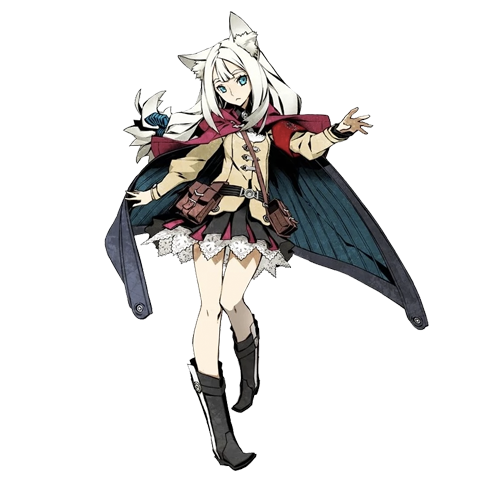
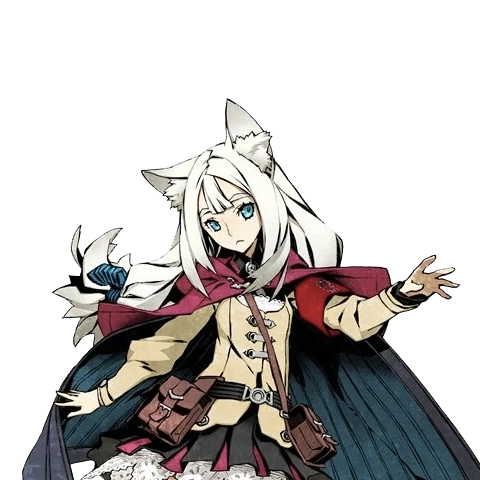
update

diff --git a/src/js/talk/talk.js b/src/js/talk/talk.js
@@ -9,8 +9,8 @@ const talkscript = [
   },
   {
     type: 0,
-    name: '男たち',
-    text: 'こんにちは!!'
+    name: '宿屋',
+    text: 'こんにちは'
   },
   {
     type: 1,
@@ -19,13 +19,28 @@ const talkscript = [
   },
   {
     type: 0,
-    name: '男たち',
+    name: '宿屋',
     text: 'ここは宿屋です'
   },
   {
     type: 0,
-    name: '男たち',
-    text: 'ここは宿屋です!!'
+    name: '宿屋',
+    text: 'ここは宿屋です！'
+  },
+  {
+    type: 1,
+    name: 'ルシェ',
+    text: '今日泊まりたいのだけれども・・・'
+  },
+  {
+    type: 0,
+    name: '宿屋',
+    text: 'お好きな部屋をお使いください'
+  },
+  {
+    type: 1,
+    name: 'ルシェ',
+    text: 'ありがとう'
   },
 ]
 
@@ -45,10 +60,11 @@ class Talk {
   async start() {
     const queue = new createjs.LoadQueue();
     const charaManifest = [
+      {src: 'inn.jpg', id: 'inn'},
       {src: 'castle.jpg', id: 'castle'},
       {src: 'chara_8.png', id: 'main_chara'},
       {src: 'king.png', id: 'king'},
-      {src: 'person.png', id: 'person'},
+      {src: 'person_2.png', id: 'person'},
     ];
     queue.loadManifest(charaManifest, true, '/assets/images/talk/');
     queue.addEventListener('fileload', (e) => this.loaders[e.item.id] = e.result);
@@ -56,9 +72,15 @@ class Talk {
   }
 
   init() {
-    this.background = this.setBackground('castle');
     this.mainChara = this.setMainCharactor('main_chara');
-    this.otherChara = this.setOtherCharactor('person');
+
+    if (state.map.currentType === 2) {
+      this.background = this.setBackground('inn');
+      this.otherChara = this.setOtherCharactor('person');
+    } else if (state.map.currentType === 3) {
+      this.background = this.setBackground('castle');
+      this.otherChara = this.setOtherCharactor('king');
+    }
     this.comment = this.setCommentBox();
 
     stage.addChild(this.background, this.otherChara, this.mainChara, this.comment);
@@ -67,10 +89,12 @@ class Talk {
 
   setBackground(key) {
     const bg = new createjs.Bitmap(this.loaders[key]);
-    bg.x = - bg.getBounds().width / 2 + 50;
+    console.log(window.innerWidth);
+    console.log(bg.getBounds().width);
+    bg.x = window.innerWidth / 2 - bg.getBounds().width / 2;
     bg.y = 0;
-    bg.scaleX = 1.5;
-    bg.scaleY = 1.5;
+    bg.scaleX = 1;
+    bg.scaleY = 1;
 
     return bg;
   }
@@ -79,9 +103,9 @@ class Talk {
     const container = new createjs.Container();
     const chara = new createjs.Bitmap(this.loaders[key]);
     chara.x = -100;
-    chara.y = 140;
-    chara.scaleX = 0.9;
-    chara.scaleY = 0.9;
+    chara.y = window.innerHeight - chara.getBounds().height * 0.7 - 240;
+    chara.scaleX = 0.8;
+    chara.scaleY = 0.8;
 
     container.addChild(chara);
     return container;
@@ -91,9 +115,9 @@ class Talk {
     const container = new createjs.Container();
     const chara = new createjs.Bitmap(this.loaders[key]);
     chara.x = 100;
-    chara.y = 140;
-    chara.scaleX = 0.9;
-    chara.scaleY = 0.9;
+    chara.y = window.innerHeight - chara.getBounds().height * 0.7 - 240;
+    chara.scaleX = 0.8;
+    chara.scaleY = 0.8;
 
     container.addChild(chara);
     return container;
@@ -123,20 +147,20 @@ class Talk {
           stage.setChildIndex(this.mainChara, stage.getNumChildren() - 1);
           stage.setChildIndex(this.otherChara, stage.getNumChildren() + 1);
           this.mainChara.filters = [];
-          this.mainChara.cache(0, 0, 480, 480);
+          this.mainChara.cache(0, 0, 960, 960);
           this.otherChara.filters = [
             new createjs.ColorFilter(0.6, 0.6, 0.6, 1, 0, 0, 0, 0)
           ];
-          this.otherChara.cache(0, 0, 480, 480);
+          this.otherChara.cache(0, 0, 960, 960);
         }  else {
           stage.setChildIndex(this.mainChara, stage.getNumChildren() + 1);
           stage.setChildIndex(this.otherChara, stage.getNumChildren() - 1);
           this.mainChara.filters = [
             new createjs.ColorFilter(0.6, 0.6, 0.6, 1, 0, 0, 0, 0)
           ];
-          this.mainChara.cache(0, 0, 480, 480);
+          this.mainChara.cache(0, 0, 960, 960);
           this.otherChara.filters = [];
-          this.otherChara.cache(0, 0, 480, 480);
+          this.otherChara.cache(0, 0, 960, 960);
         }
         stage.setChildIndex(this.comment, stage.getNumChildren() - 1);
         this.talk.name.text = item.name;

diff --git a/src/js/app.js b/src/js/app.js
@@ -6,7 +6,7 @@ window.stage = new Stage('content');
 window.route = router;
 window.state = {
   map: {
-    currentType: 0,
+    currentType: 2,
     piece: {
       pos: { x: 0, y: 0 }
     },
